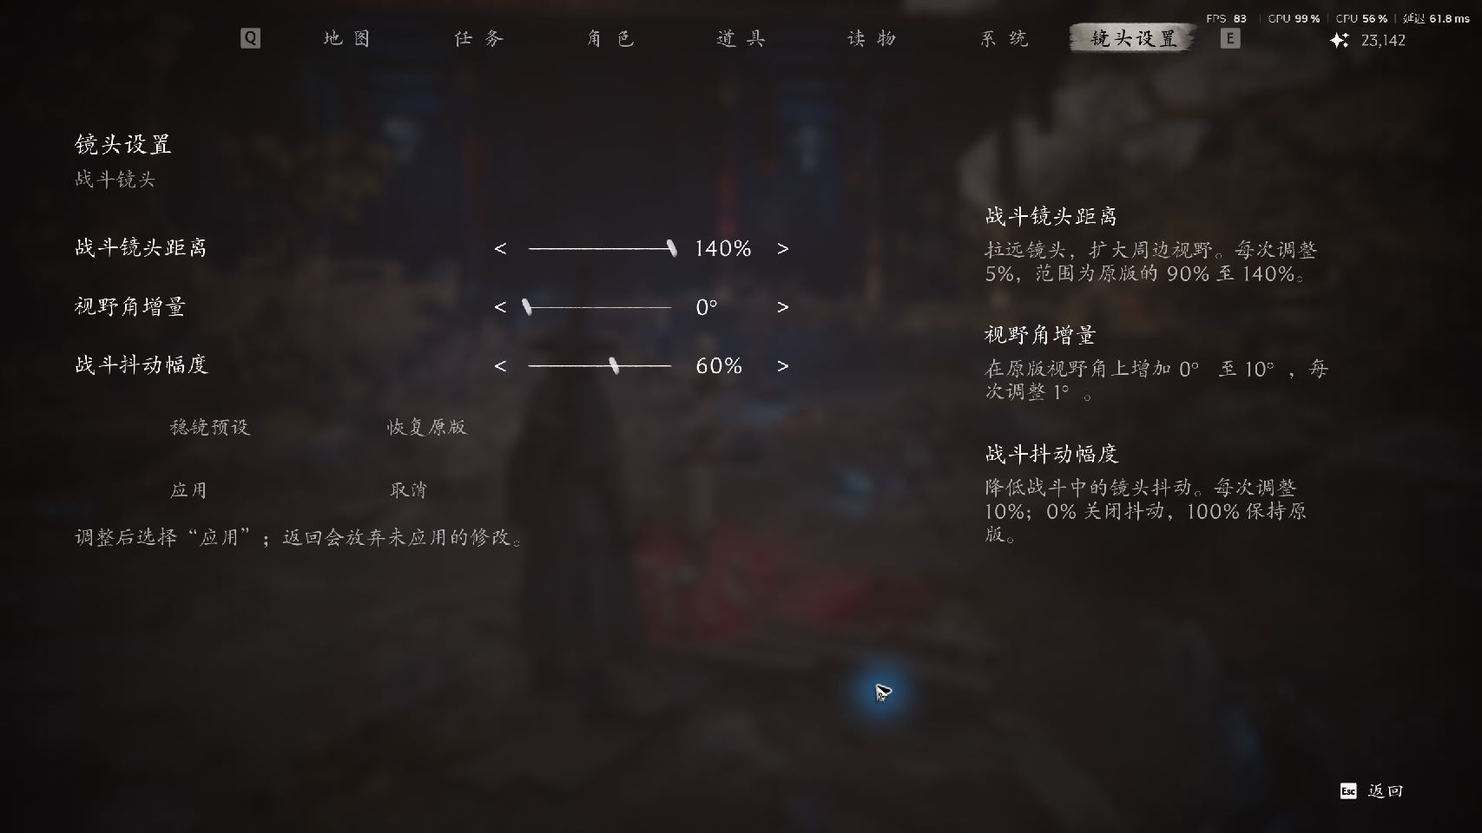
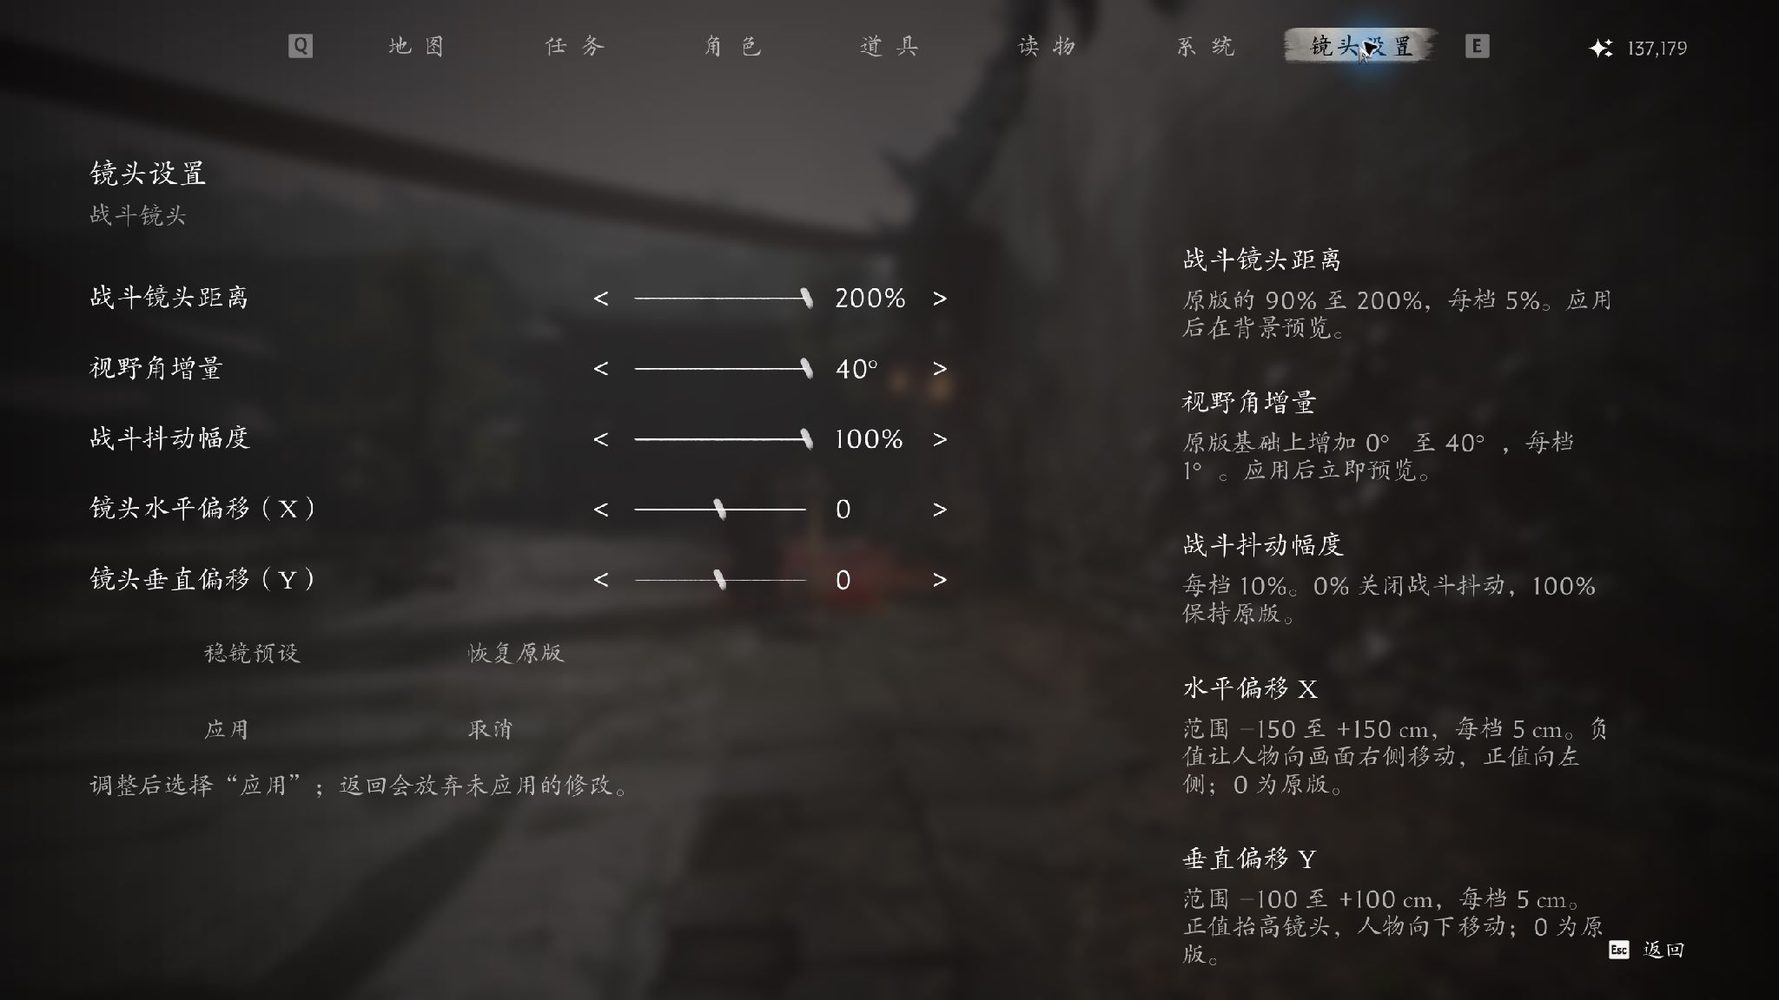
Release v0.1.2-beta: wider distance/FOV ranges and XY camera offset
Bump mod to 0.1.2-beta: distance 90-200%, FOV +0-40 deg, new horizontal/vertical camera offset sliders (-300..300 cm, 5 cm steps), refreshed menu screenshot, docs and 42 node + 4 release tests.

diff --git a/src/PBZCamera/runtime.js b/src/PBZCamera/runtime.js
@@ -34,9 +34,9 @@ function persist(text){return UE.EasyCsv.SaveStringToFileWithFullPath(text,confi
 // Whitelist gameplay camera modes. Unknown, execution and cinematic modes receive no writes.
 const gameplayMode=/^DA_CameraMode_(GroupCombat|Combat|Normal|Default|ShouderDefault|Walk|Run|Sprint)$/;
 class CameraRuntime{
-    constructor(world){this.world=world;this.camera=null;this.mode=null;this.manager=null;this.fov=null;this.shake=null;this.added=false;this.errorLogged=false;}
-    // Paused gameplay must not receive camera writes; keep the current overrides
-    // instead of releasing them so the settings survive the pause menu.
+    constructor(world){this.world=world;this.camera=null;this.mode=null;this.manager=null;this.fov=null;this.shake=null;this.added=false;this.offsetAdded=false;this.errorLogged=false;}
+    // Ordinary paused polling preserves ownership without writing. Only an
+    // explicit successful menu Apply requests a guarded camera-only refresh.
     isPaused(){
         try{return UE.GameplayStatics.IsGamePaused(this.world)===true;}
         catch(error){return false;}
@@ -44,19 +44,22 @@ class CameraRuntime{
     release(){
         const attempt=callback=>{try{callback();}catch(error){log('Camera teardown: '+String(error));}};
         attempt(()=>{if(this.added && valid(this.camera))this.camera.RemoveOverrideParameter('PBZCamera.Distance',0.2);});
+        attempt(()=>{if(this.offsetAdded && valid(this.camera))this.camera.RemoveOverrideParameter('PBZCamera.Framing',0.2);});
         this.added=false;
+        this.offsetAdded=false;
         attempt(()=>{if(this.fov)this.fov.release();});
         attempt(()=>{if(this.shake)this.shake.release();});
         this.fov=null;this.shake=null;this.camera=null;this.mode=null;this.manager=null;
         this.lastSettings=null;
     }
-    update(){
+    update(preview=false){
         try{
             const pawn=UE.GameplayStatics.GetPlayerPawn(this.world,0);
             const manager=UE.GameplayStatics.GetPlayerCameraManager(this.world,0);
             const sequence=TsHelper.getWorldSubsystem(this.world,UE.PBZLevelSequenceManager.StaticClass());
             if(!valid(pawn) || !valid(manager) || sequence && sequence.IsInSequence()){this.release();return;}
-            if(this.isPaused())return;
+            const paused=this.isPaused();
+            if(paused && !preview)return;
             const asc=UE.AbilitySystemBlueprintLibrary.GetAbilitySystemComponent(pawn);
             if(asc && asc.HasMatchingGameplayTag(TsHelper.constructGameplayTag('CharacterState.Dead'))){this.release();return;}
             // Native return is CineCameraComponent; the gameplay controller is a separate pawn component.
@@ -85,27 +88,56 @@ class CameraRuntime{
             const active=getSettings().active();
             const base=mode.CameraModeSettings.LocationSettings.DefaultCameraDistance;
             if(!Number.isFinite(base) || base<=0)throw Error('Invalid native distance baseline');
-            if(active.distance===1){if(this.added)camera.RemoveOverrideParameter('PBZCamera.Distance',0.2);this.added=false;}
+            const blend=paused?0:0.2;
+            if(active.distance===1){if(this.added)camera.RemoveOverrideParameter('PBZCamera.Distance',blend);this.added=false;}
             else {
                 const delta=base*(active.distance-1);
-                if(!this.added || this.distanceDelta!==delta){camera.SetAdditiveParameter_Distance('PBZCamera.Distance',delta,0.2);this.distanceDelta=delta;this.added=true;}
+                if(!this.added || this.distanceDelta!==delta){camera.SetAdditiveParameter_Distance('PBZCamera.Distance',delta,blend);this.distanceDelta=delta;this.added=true;}
+            }
+            if(active.offsetX===0 && active.offsetY===0){
+                if(this.offsetAdded)camera.RemoveOverrideParameter('PBZCamera.Framing',blend);
+                this.offsetAdded=false;
+            }else if(!this.offsetAdded || this.offsetX!==active.offsetX || this.offsetY!==active.offsetY){
+                // UI X/Y are screen-horizontal/vertical. Native socket offsets
+                // use camera-local Y/Z; leave forward X and the native baseline intact.
+                camera.SetAdditiveParameter_SocketOffset('PBZCamera.Framing',new UE.Vector(0,active.offsetX,active.offsetY),blend);
+                this.offsetX=active.offsetX;this.offsetY=active.offsetY;this.offsetAdded=true;
             }
             if(active.fov===0)this.fov.release();else this.fov.apply(base=>base+active.fov);
             if(active.shake===1)this.shake.release();else this.shake.apply(base=>base*active.shake);
             const signature=JSON.stringify(active);
             if(this.lastSettings!==signature){
                 log('Camera readback: '+JSON.stringify({mode:String(mode.GetName()),baseDistance:base,distanceDelta:this.added?this.distanceDelta:0,
-                    fov:mode.CameraModeSettings.FOVSettings.CameraFOV,shake:manager.CameraShakeScale}));
+                    fov:mode.CameraModeSettings.FOVSettings.CameraFOV,shake:manager.CameraShakeScale,
+                    framingOffset:{x:active.offsetX,y:active.offsetY}}));
                 this.lastSettings=signature;
             }
             // A completed pass proves the interfaces work again; one transient
             // native error must not disable the whole feature until reload.
             this.errorLogged=false;
+            if(preview && paused){
+                try{
+                    const controller=UE.GameplayStatics.GetPlayerController(this.world,0);
+                    const fovObject=camera.GetCameraFOVObject();
+                    if(!valid(controller) || !valid(fovObject))return false;
+                    // Flush the native camera state, then its FOV interpolation,
+                    // then the paused POV cache (same controller API as Appearance).
+                    camera.Flush();fovObject.FlushTargetFOV();controller.ForceUpdateCameraView();
+                    log('Camera paused preview refreshed');
+                }catch(error){log('Camera preview unavailable: '+String(error));return false;}
+            }
+            return true;
         }catch(error){
             if(!this.errorLogged){log('Camera suspended: '+String(error));this.errorLogged=true;}
             try{this.release();}catch(cleanup){log('Camera cleanup: '+String(cleanup));}
         }
     }
+}
+function refreshCameraPreview(context){
+    try{
+        const state=worlds.get(UE.GameplayStatics.GetGameMode(context));
+        return !!state && state.camera.update(true)===true;
+    }catch(error){log('Camera preview unavailable: '+String(error));return false;}
 }
 function start(world){
     if(worlds.has(world))return;
@@ -117,4 +149,4 @@ function stop(world){
     const state=worlds.get(world);if(!state)return;
     clearInterval(state.timer);worlds.delete(world);state.camera.release();log('World services stopped');
 }
-module.exports={getSettings,persist,start,stop,log,valid};
+module.exports={getSettings,persist,start,stop,log,valid,refreshCameraPreview};

diff --git a/src/PBZCamera/menus.js b/src/PBZCamera/menus.js
@@ -2,7 +2,7 @@
 const UE=require('ue');
 const {$ref,$unref,makeUClass}=require('puerts');
 const {FText}=require('cpp');
-const {getSettings,persist,log,valid}=require('./runtime');
+const {getSettings,persist,log,valid,refreshCameraPreview}=require('./runtime');
 const {vignetteStrips}=require('./vignette');
 const pauseStates=new WeakMap();
 const cameraHint='调整后选择“应用”；返回会放弃未应用的修改。';
@@ -112,7 +112,9 @@ function makeCameraPage(host,buttonClass){
     root.AddChildToHorizontalBox(size(help,500)).SetPadding(new UE.Margin(180,95,0,0));
     add(box,nativeLabel('镜头设置',1,24));
     add(box,size(nativeLabel('战斗镜头',0.55,20),960,60));
-    const fields=[['distance','战斗镜头距离',0.9,1.4,0.05,v=>Math.round(v*100)+'%'],['fov','视野角增量',0,10,1,v=>v.toFixed(0)+'°'],['shake','战斗抖动幅度',0,1,0.1,v=>Math.round(v*100)+'%']];
+    const signed=v=>(v>0?'+':'')+v.toFixed(0);
+    const fields=[['distance','战斗镜头距离',0.9,2,0.05,v=>Math.round(v*100)+'%'],['fov','视野角增量',0,40,1,v=>v.toFixed(0)+'°'],['shake','战斗抖动幅度',0,1,0.1,v=>Math.round(v*100)+'%'],
+        ['offsetX','镜头水平偏移（X）',-300,300,5,signed],['offsetY','镜头垂直偏移（Y）',-300,300,5,signed]];
     for(const [key,title,min,max,step,format] of fields){
         const row=make(UE.HorizontalBox);add(box,size(row,960,64));
         horizontal(row,size(nativeLabel(title),520));
@@ -169,17 +171,24 @@ function makeCameraPage(host,buttonClass){
     action(presets,'稳镜预设',()=>{model.preset('steady');state.refresh();state.notice.SetText(text('尚未应用'));});
     action(presets,'恢复原版',()=>{model.preset('original');state.refresh();state.notice.SetText(text('尚未应用'));});
     action(commands,'应用',()=>{
-        try{model.apply(persist);state.notice.SetText(text('已应用并保存'));log('Camera settings applied '+JSON.stringify(model.active()));}
+        try{
+            model.apply(persist);
+            const previewed=refreshCameraPreview(host);
+            state.notice.SetText(text(previewed?'已应用并保存，可在背景查看镜头变化':'已保存；当前镜头暂不支持菜单预览'));
+            log('Camera settings applied '+JSON.stringify(model.active()));
+        }
         catch(error){state.notice.SetText(text('保存失败，设置未应用'));log('Camera save failed: '+String(error));}
     });
     action(commands,'取消',()=>{model.cancel();state.refresh();state.notice.SetText(text('已取消本次修改'));});
     state.notice=add(box,nativeLabel(cameraHint,0.65,20));
     for(const [title,description] of [
-        ['战斗镜头距离','拉远镜头，扩大周边视野。每次调整 5%，范围为原版的 90% 至 140%。'],
-        ['视野角增量','在原版视野角上增加 0° 至 10°，每次调整 1°。'],
-        ['战斗抖动幅度','降低战斗中的镜头抖动。每次调整 10%；0% 关闭抖动，100% 保持原版。']]){
+        ['战斗镜头距离','原版的 90% 至 200%，每档 5%。应用后在背景预览。'],
+        ['视野角增量','原版基础上增加 0° 至 40°，每档 1°。应用后立即预览。'],
+        ['战斗抖动幅度','每档 10%。0% 关闭战斗抖动，100% 保持原版。'],
+        ['水平偏移 X','范围 -300 至 +300 cm，每档 5 cm。负值让人物向画面右侧移动，正值向左侧；0 为原版。'],
+        ['垂直偏移 Y','范围 -300 至 +300 cm，每档 5 cm。正值抬高镜头，人物向下移动；0 为原版。']]){
         add(help,nativeLabel(title));const body=nativeLabel(description,0.65,20);body.SetAutoWrapText(true);add(help,body);
-        add(help,size(nativeLabel(''),400,26));
+        add(help,size(nativeLabel(''),400,12));
     }
     for(let i=0;i<state.controls.length;i++){
         const c=state.controls[i];

diff --git a/src/PBZCamera/camera-settings.js b/src/PBZCamera/camera-settings.js
@@ -1,9 +1,9 @@
 "use strict";
 const presets=Object.freeze({
-    original:Object.freeze({distance:1,fov:0,shake:1}),
-    steady:Object.freeze({distance:1.1,fov:0,shake:0.6})
+    original:Object.freeze({distance:1,fov:0,shake:1,offsetX:0,offsetY:0}),
+    steady:Object.freeze({distance:1.1,fov:0,shake:0.6,offsetX:0,offsetY:0})
 });
-const bounds={distance:[0.9,1.4],fov:[0,10],shake:[0,1]};
+const bounds={distance:[0.9,2],fov:[0,40],shake:[0,1],offsetX:[-300,300],offsetY:[-300,300]};
 function validate(settings) {
     if(!settings || typeof settings!=='object' || Array.isArray(settings)) throw Error('Invalid settings');
     const result={...presets.steady};

diff --git a/README.md b/README.md
@@ -1,26 +1,30 @@
 # 影之刃零 · 稳镜设置
 
-**PBZ Steady Camera · v0.1.0-beta**
+**PBZ Steady Camera · v0.1.2-beta**
 
-在游戏原生 **Esc → 镜头设置** 页面中调整战斗镜头距离、视野角增量和抖动幅度。提供稳镜预设、应用、取消与恢复原版。
+在游戏原生 **Esc → 镜头设置** 页面中调整战斗镜头距离、视野角增量、抖动幅度以及镜头坐标偏移。提供稳镜预设、应用、取消与恢复原版。
 
-[下载测试版与宣传视频](https://github.com/zhanghaoqi1/PBZ-Steady-Camera/releases/tag/v0.1.0-beta) · [中文安装说明](docs/README_简体中文.md) · [English](docs/README_EN.md) · [源码构建](README_BUILD.md)
+[下载测试版](https://github.com/zhanghaoqi1/PBZ-Steady-Camera/releases/latest) · [中文安装说明](docs/README_简体中文.md) · [English](docs/README_EN.md) · [源码构建](README_BUILD.md)
 
 ![原生菜单中的镜头设置](assets/camera-menu.jpg)
 
-截图来自同源镜头实现的游戏内验证。宣传视频采用实机截图动效与中文字幕，不是连续战斗录像。
+截图来自同源镜头实现的游戏内验证。
 
 | 设置 | 范围 | 每档 | 首次默认 |
 |---|---|---|---|
-| 战斗镜头距离 | 原版的 90%–140% | 5% | 110% |
-| 视野角增量 | +0° 至 +10° | 1° | +0° |
+| 战斗镜头距离 | 原版的 90%–200% | 5% | 110% |
+| 视野角增量 | 原版基础上 +0° 至 +40° | 1° | +0° |
 | 战斗抖动幅度 | 0%–100% | 10% | 60% |
+| 镜头水平偏移（X） | -300 至 +300 cm | 5 cm | 0 |
+| 镜头垂直偏移（Y） | -300 至 +300 cm | 5 cm | 0 |
 
-点「应用」后保存，返回游戏生效。「取消」、切换页签或 Esc 返回会放弃草稿。「恢复原版」对应 100%、+0°、100%，仍需点「应用」。
+点「应用」后保存并立即刷新设置页背景中的镜头，返回游戏生效。「取消」、切换页签或 Esc 返回会放弃草稿。「恢复原版」对应距离 100%、FOV 增量 0°、抖动 100%、XY 偏移归零，仍需点「应用」。
+
+坐标偏移以厘米为单位，每档 5 cm：负的 X 让人物向右移动（镜头相对左移），正的 Y 抬高镜头、人物在画面中下移；0 为原版。偏移量接近 ±300 cm 时，镜头可能穿过门框、墙壁或天花板，与原版镜头一样不做碰撞修正。
 
 ## 安装
 
-1. 完全退出游戏，下载 Release 中的 `PBZ_SteadyCamera_v0.1.0-beta.zip`。
+1. 完全退出游戏，下载 Release 中的 `PBZ_SteadyCamera_v0.1.2-beta.zip`。
 2. 移除旧组合版的三个 `zz_PBZCombat_P` 文件（如果装过）。
 3. 将 ZIP 中的 `ProjectPBZ` 文件夹复制进游戏根目录。三个文件应位于：
 
@@ -37,7 +41,7 @@ PBZ/ProjectPBZ/Content/Paks/~mods/
 
 - Windows x64 / Steam Build **26266538**，**CL-301524_JKS-17219**，UE **5.7.4**。
 - 本项目仅包含镜头功能，不含 Boss 再战或伤害、技能、AI 修改。运行时使用游戏内置 Puerts。
-- 32 项 Node 行为测试、4 项 Python 发行测试、PAK 解包哈希回读及 ZIP 校验已通过。同源镜头逻辑与菜单此前已实机验证；本次发布另修复了原生镜头重置后参数未重新应用的问题，该修正通过自动测试，尚未单独实机复测。
+- 42 项 Node 行为测试、4 项 Python 发行测试、PAK 解包哈希回读及 ZIP 校验已通过。同源镜头逻辑与原生菜单此前已实机验证；0.1.2 的距离/视野角范围扩展与 XY 坐标偏移通过自动测试，尚未单独实机复测全部端点。
 - **拆分后的独立发行包尚未重新完成安装到游戏启动的全流程实机走查。** 其他 Build、所有场景、手柄完整导航与超宽屏尚未全面验收。
 - 替换 `UI/Widget/SystemBase.js` 和 `Gameplay/GameModeBuild.js`；替换相同脚本或运行时相机的其他 Mod 可能冲突。请勿与旧组合版同时安装。
 

diff --git a/docs/README_EN.md b/docs/README_EN.md
@@ -1,6 +1,6 @@
-# Phantom Blade Zero — Steady Camera v0.1.0-beta
+# Phantom Blade Zero — Steady Camera v0.1.2-beta
 
-Camera-only experimental build. Adds a native **Camera Settings / 镜头设置** tab to the Esc menu, with distance, FOV offset and camera-shake controls, Apply/Cancel and presets. The current UI labels are in Simplified Chinese.
+Camera-only experimental build. Adds a native **Camera Settings / 镜头设置** tab to the Esc menu, with distance, FOV offset, camera-shake and camera-offset controls, Apply/Cancel and presets. The current UI labels are in Simplified Chinese.
 
 ## Supported base build
 
@@ -8,7 +8,7 @@ Windows x64 / Steam Build **26266538**, game **CL-301524_JKS-17219**, Unreal Eng
 
 The separated package passes automated behavior/dependency tests and a PAK unpack/hash roundtrip. The shared camera implementation and native menu were previously tested in-game in the combined development build. **A new end-to-end installation/gameplay test of this separated distribution has not been performed.** This is a beta, not a claim of full gameplay coverage.
 
-This release also fixes reapplication after a native camera reset. That correction passes automated regression tests and has not received a separate in-game retest.
+This release expands distance/FOV/offset ranges and adds paused Apply preview. The shared combined development build received real-game preview, original-preset and Esc-cancellation checks on 2026-11-02. This is not a fresh standalone installation test.
 
 ## Installation
 
@@ -28,9 +28,11 @@ Uses the game's bundled Puerts runtime. No additional UE4SS, ModEngine, injected
 
 ## Controls
 
-Distance: **90–140%**, steps of **5%**, default **110%**. FOV offset: **+0° to +10°**, steps of **1°**, default **+0°**. Shake: **0–100%**, steps of **10%**, default **60%**.
+Distance: **90–200%**, steps of **5%**, default **110%**. FOV offset: **+0° to +40°**, steps of **1°**, default **+0°**. Shake: **0–100%**, steps of **10%**, default **60%**. Horizontal camera offset (X): **-300 to +300 cm**, steps of **5 cm**, default **0**. Vertical camera offset (Y): **-300 to +300 cm**, steps of **5 cm**, default **0**.
 
-Edit using sliders/arrows and choose **应用 (Apply)** to save; camera changes take effect after returning to gameplay. **取消 (Cancel)**, switching tabs or Esc discards unapplied edits. **恢复原版 (Original preset)** prepares 100% distance, +0° FOV and 100% shake; Apply is still required.
+Edit using sliders/arrows and choose **应用 (Apply)** to save; the paused menu background refreshes immediately without leaving the page. The native blur and vignette remain. **取消 (Cancel)**, switching tabs or Esc discards unapplied edits. **恢复原版 (Original preset)** prepares 100% distance, +0° FOV, 100% shake and zero offsets; Apply is still required.
+
+Offsets are in centimetres: negative X shifts the character to the right of frame (camera moves left), positive Y raises the camera and moves the character down; 0 is the original framing. Large offsets (near ±300 cm) may push the camera through doorways, walls or ceilings, as the original camera does no collision correction for them.
 
 Configuration: `%LOCALAPPDATA%\ProjectPBZ\Saved\PBZCamera.json`. No personal configuration or save is bundled. Old combined-package settings are not imported automatically.
 

diff --git a/docs/README_简体中文.md b/docs/README_简体中文.md
@@ -1,6 +1,6 @@
-# 影之刃零：稳镜设置 — v0.1.0-beta
+# 影之刃零：稳镜设置 — v0.1.2-beta
 
-镜头专用测试版。在原生 Esc 菜单的「镜头设置」页中调整镜头距离、视野角增量和战斗抖动幅度，提供应用、取消、稳镜预设和恢复原版。
+镜头专用测试版。在原生 Esc 菜单的「镜头设置」页中调整镜头距离、视野角增量、战斗抖动幅度和镜头坐标偏移，提供应用、取消、稳镜预设和恢复原版。
 
 本包仅包含镜头功能，不含 Boss 再战、技能/AI/伤害修改、开发探针、资源密钥、个人配置或存档。运行时使用游戏自带的 Puerts，不需要额外安装 UE4SS、ModEngine 或注入 DLL。
 
@@ -9,7 +9,7 @@
 - Windows x64 / Steam；已适配的基础版本：Steam Build **26266538**，游戏 **CL-301524_JKS-17219**，UE **5.7.4**。
 - 其他游戏版本、平台及后续更新未验证。游戏更新后，两个原版脚本入口可能改变。
 - 这是 **beta 测试版**。本独立包通过了自动行为测试、依赖检查及 PAK 解包哈希比对；同源镜头逻辑与原生菜单此前已实机验证。**拆分后的独立发行包尚未重新完成安装到游戏启动的全流程实机走查。**
-- 本次发行修复了原生镜头重置后参数可能未重新应用的问题；该修正通过自动回归测试，尚未单独实机复测。
+- 本次扩大了距离和视野角范围，加入暂停菜单内的应用预览，并将镜头坐标偏移扩展到 ±300 cm。同源组合开发版已于2026-11-02完成菜单内预览、恢复原版及 Esc 取消的实机验证；独立包仍需单独完成安装验证。
 
 ## 安装
 
@@ -32,11 +32,15 @@ PBZ/
 
 | 选项 | 范围 | 每档 | 首次默认值 |
 |---|---|---|---|
-| 战斗镜头距离 | 原版的 90%–140% | 5% | 110% |
-| 视野角增量 | 原版基础上 +0° 至 +10° | 1° | +0° |
+| 战斗镜头距离 | 原版的 90%–200% | 5% | 110% |
+| 视野角增量 | 原版基础上 +0° 至 +40° | 1° | +0° |
 | 战斗抖动幅度 | 0%–100% | 10% | 60% |
+| 镜头水平偏移（X） | -300 至 +300 cm | 5 cm | 0 |
+| 镜头垂直偏移（Y） | -300 至 +300 cm | 5 cm | 0 |
 
-拖动滑条或点击左右箭头调整，选择「应用」后保存，返回游戏后生效。「取消」、切换页签或 Esc 返回会放弃未应用的修改。「恢复原版」只改草稿，需再点「应用」，对应距离100%、FOV增量0°、抖动100%。
+拖动滑条或点击左右箭头调整，选择「应用」后保存，并立即刷新设置页背景中的镜头，无需退出菜单。暂停画面保留原版模糊与暗角。「取消」、切换页签或 Esc 返回会放弃未应用的修改。「恢复原版」只改草稿，需再点「应用」，对应距离100%、FOV增量0°、抖动100%、XY偏移归零。
+
+坐标偏移以厘米为单位，每档 5 cm：负的 X 让人物向右移动（镜头相对左移），正的 Y 抬高镜头、人物在画面中下移；0 为原版。偏移量较大（接近 ±300 cm）时，镜头可能穿过门框、墙壁或天花板，与原版镜头一样不做碰撞修正。
 
 独立配置保存在 `%LOCALAPPDATA%\ProjectPBZ\Saved\PBZCamera.json`。不附带发布者的个人配置，也不自动导入旧组合版的配置。
 

diff --git a/docs/CHANGELOG.md b/docs/CHANGELOG.md
@@ -1,3 +1,19 @@
+# v0.1.2-beta — 2026-11-02
+
+- Adds signed camera framing offsets: horizontal X and vertical Y, each **-300 to +300 cm** in 5 cm steps, default 0.
+- Offsets are applied as native `SocketOffset` additive parameters and removed again when both values return to zero.
+- Original/steady presets now also reset both offsets to 0; drafts, Cancel and Apply behave like the other controls.
+- Distance response range is 90–200% and FOV increment +0–40°; successful Apply refreshes the paused camera background.
+- 42 camera behavior tests and 4 release tests pass.
+
+# v0.1.1-beta — 2026-11-02
+
+- Distance90–200%, FOV increment0–40 degrees; existing5%/1 degree steps.
+- Successful Apply refreshes the paused camera background through native camera/controller interfaces.
+- Native pause, blur, vignette, drafts/cancel and UI styling retained.
+- Combined build live checks cover Apply, original preset and Esc cancellation; separated package installation remains untested.
+- 37 camera behavior tests and4 release tests pass.
+
 # v0.1.0-beta — 2026-10-31
 
 - First separated camera-only distribution; independent `PBZCamera` module namespace and configuration.
